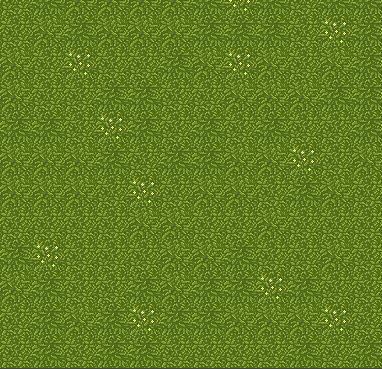
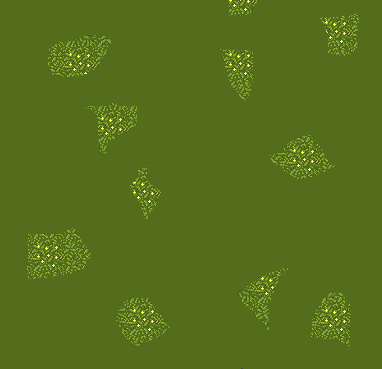
IA random intégrée. suppression des armées tuées

diff --git a/src/notreJeu/levels/AbstractLevelCTF.java b/src/notreJeu/levels/AbstractLevelCTF.java
@@ -11,10 +11,13 @@ import java.util.Set;
 import javax.swing.JButton;
 
 import gameframework.core.Game;
+import gameframework.core.GameEntity;
 import gameframework.core.GameLevelDefaultImpl;
 import gameframework.core.GameMovableDriverDefaultImpl;
 import gameframework.moves_rules.MoveBlockerChecker;
+import gameframework.moves_rules.MoveStrategy;
 import gameframework.moves_rules.MoveStrategyKeyboard;
+import gameframework.moves_rules.MoveStrategyRandom;
 import notreJeu.ArmyFactory;
 import notreJeu.Team;
 import notreJeu.entities.Army;
@@ -89,7 +92,7 @@ public abstract class AbstractLevelCTF extends GameLevelDefaultImpl{
 				}
 				Team t = _teams_played.iterator().next();
 				ArmyFactory a =t.getArmyFactory();
-				addArmy(a.getArmy(_canvas, nb_horseman, nb_infantryman, t, "Player"+String.valueOf(t.getSide())), _canvas);
+				addArmy(a.getArmy(_canvas, nb_horseman, nb_infantryman, t, "Player"+String.valueOf(t.getSide())));
 			}
 		}
 	}
@@ -103,12 +106,12 @@ public abstract class AbstractLevelCTF extends GameLevelDefaultImpl{
 		return new ReleaseArmyButtonAction(list);
 	}
 	
-	public void addArmy(Army army, Canvas canvas){
+	public void addArmy(Army army){
 		GameMovableDriverDefaultImpl armyDriver = new GameMovableDriverDefaultImpl();
 		MoveStrategyKeyboard keyPlayer = new MoveStrategyKeyboard();
 		armyDriver.setStrategy(keyPlayer);
 		armyDriver.setmoveBlockerChecker(moveBlockerChecker);
-		canvas.addKeyListener(keyPlayer);
+		_canvas.addKeyListener(keyPlayer);
 		army.setDriver(armyDriver);
 		try{
 			army.setTeam(_teams_played.iterator().next());
@@ -119,6 +122,35 @@ public abstract class AbstractLevelCTF extends GameLevelDefaultImpl{
 		universe.addGameEntity(army);
 	}
 	
+	public void addArmy(Team t, MoveStrategy move_strat, int nb_horseman, int nb_infantryman, String name){
+		GameMovableDriverDefaultImpl armyDriver = new GameMovableDriverDefaultImpl();
+		armyDriver.setStrategy(move_strat);
+		armyDriver.setmoveBlockerChecker(moveBlockerChecker);
+		
+		Army army = t.getArmyFactory().getArmy(_canvas, nb_horseman, nb_infantryman, name);
+		army.setDriver(armyDriver);
+		try{
+			army.setTeam(_teams_ia.iterator().next());
+		}catch(Exception e){e.printStackTrace();}
+		Point pos = army.getTeam().getPosition();
+		pos.setLocation(pos.getX(), pos.getY());
+		army.setPosition(pos);
+		universe.addGameEntity(army);
+	}
+	
+	public Army getArmy(Team t){
+		Iterator<GameEntity> it = universe.gameEntities();
+		GameEntity ge;
+		while(it.hasNext()){
+			ge = it.next();
+			if(ge instanceof Army){
+				if(((Army)ge).getTeam().getSide() == t.getSide())
+					return (Army)ge;
+			}	
+		}
+		return null;
+	}
+		
 	public void setSpriteSize(int size){
 		SPRITE_SIZE = size;
 	}

diff --git a/src/notreJeu/rules/CTFOverlapRules.java b/src/notreJeu/rules/CTFOverlapRules.java
@@ -1,10 +1,12 @@
 package notreJeu.rules;
 
+import gameframework.core.GameEntity;
 import gameframework.core.GameUniverse;
 import gameframework.core.ObservableValue;
 import gameframework.moves_rules.Overlap;
 import gameframework.moves_rules.OverlapRulesApplierDefaultImpl;
 
+import java.util.Iterator;
 import java.util.Vector;
 
 import notreJeu.entities.Army;
@@ -36,18 +38,45 @@ public class CTFOverlapRules extends OverlapRulesApplierDefaultImpl {
 		super.applyOverlapRules(overlappables);
 	}
 
+	private GameEntity getArmyFromUniverse(Army a){
+		Iterator<GameEntity> it = universe.gameEntities();
+		GameEntity ge;
+		while(it.hasNext()){
+			ge = it.next();
+			if(ge instanceof Army){
+				if(((Army)ge).equals(a))
+					return (Army)ge;
+			}	
+		}
+		return null;
+	}
+	
 	public void overlapRule(Army a, Army a2) {
-		Unit u1 = a.getSoldiers();
-		Unit u2 = a2.getSoldiers();
+		if(a.getTeam().getSide() != a2.getTeam().getSide()){
+			Unit u1 = a.getSoldiers();
+			Unit u2 = a2.getSoldiers();
+			
+			u2.parry(u1.strike());
+			u1.parry(u2.strike());
+			
+			System.out.println("u1 :"+u1.alive()+" u2 "+u2.alive());//TMP
+			
+			if(!u1.alive())
+				universe.removeGameEntity(getArmyFromUniverse(a));
+			if(!u2.alive())
+				universe.removeGameEntity(getArmyFromUniverse(a2));
+			
+			//TODO :disparition des entities si nécessaires
+		}
 		
-		u2.parry(u1.strike());
-		u1.parry(u2.strike());
+			
 	}
 
 	public void overlapRule(Army a, Flag f) {
 		//si c'est une armée d'un camps qui rencontre le drapeau d'un autre camps
 		if(f.getTeam().getSide() != a.getTeam().getSide()){
 			if ((!f.isCatched()) && !a.haveAFlag()){
+				System.out.println("CATCHED");
 				a.captureTheFlag();
 			}
 		}

diff --git a/src/notreJeu/levels/CTFLevel1.java b/src/notreJeu/levels/CTFLevel1.java
@@ -11,7 +11,6 @@ import java.awt.Image;
 import java.awt.Point;
 import java.awt.event.ActionListener;
 import java.io.FileInputStream;
-import java.util.HashSet;
 import java.util.LinkedList;
 import java.util.Queue;
 
@@ -28,13 +27,14 @@ import notreJeu.GetAgeFactory;
 import notreJeu.Team;
 import notreJeu.coreextensions.GameCTFImpl;
 import notreJeu.coreextensions.GameUniverseViewPortCTFImpl;
+
 import notreJeu.entities.Barrack;
 import notreJeu.entities.Flag;
+import notreJeu.entities.IAEntity;
 import notreJeu.entities.IndestructibleWall;
 import notreJeu.rules.CTFMoveBlockers;
 import notreJeu.rules.CTFOverlapRules;
 import notreJeu.rules.CreationFlagRuleCenterImpl;
-import notreJeu.rules.CreationFlagRuleHorizontalAxisImpl;
 import notreJeu.rules.CreationFlagRules;
 
 public class CTFLevel1 extends AbstractLevelCTF{
@@ -114,10 +114,15 @@ public class CTFLevel1 extends AbstractLevelCTF{
 					Team t = new Team(team_id, p, equips[team_id], armyFactory, cfr);
 					universe.addGameEntity(new Barrack(_canvas, p));
 					universe.addGameEntity(new Flag(_canvas, flag_pos, t));
-					if(team_id == 0)
+					if(team_id == 0){
 						_teams_played.add(t);
-					else
+						System.out.println(t.getSide());
+					}
+					else{
 						_teams_ia.add(t);
+						//Les IA ont une instance Entity pour avoir droit a des effets temporels.
+						universe.addGameEntity(new IAEntity(this, t));
+					}
 					break;
 				case 0:
 				default:

diff --git a/src/notreJeu/entities/Flag.java b/src/notreJeu/entities/Flag.java
@@ -10,7 +10,7 @@ import java.awt.Rectangle;
 import notreJeu.Team;
 
 public class Flag implements Entity {
-	protected DrawableImage image = null;
+	protected DrawableImage image = null, image_save;
 	protected Point _position;
 	protected boolean _catched;
 	protected Team _side;
@@ -18,6 +18,7 @@ public class Flag implements Entity {
 
 	public Flag(Canvas defaultCanvas, Point pos, Team side) {
 		image = new DrawableImage(side.getPicture(), defaultCanvas);
+		//image_save = new DrawableImage("images/ctf_flag_empty.png", defaultCanvas);
 		_position = pos;
 		_catched = false;
 		_side=side;
@@ -44,10 +45,14 @@ public class Flag implements Entity {
 	}
 	
 	public void draw(Graphics g) {
-		if(!_catched)
-			g.drawImage(image.getImage(), (int) getPosition().getX(),
-				(int) getPosition().getY(), RENDERING_SIZE, RENDERING_SIZE,
+		//if(!_catched)
+			g.drawImage(image.getImage(), getPosition().x, getPosition().y, RENDERING_SIZE, RENDERING_SIZE,
 				null);
+		/*else{
+			DrawableImage tmp = image;
+			image = image_save;
+			image_save = tmp;
+		}*/
 	}
 
 	public Rectangle getBoundingBox() {

diff --git a/src/notreJeu/entities/IAEntity.java b/src/notreJeu/entities/IAEntity.java
@@ -1,0 +1,35 @@
+package notreJeu.entities;
+
+import java.awt.Rectangle;
+
+import notreJeu.Team;
+import notreJeu.levels.AbstractLevelCTF;
+import gameframework.core.GameEntity;
+import gameframework.core.GameMovable;
+import gameframework.moves_rules.MoveStrategyRandom;
+
+public class IAEntity extends GameMovable implements GameEntity{
+
+	private int _timer;
+	private AbstractLevelCTF _level;
+	private Team _team;
+	public static final int RENDERING_SIZE = 32;
+	
+	public IAEntity(AbstractLevelCTF level, Team t) {
+		_timer = 0;
+		_level = level;
+		_team = t;
+	}
+	
+	@Override
+	public Rectangle getBoundingBox() {return new Rectangle(0, 0, RENDERING_SIZE, RENDERING_SIZE);}
+
+	@Override
+	public void oneStepMoveAddedBehavior() {
+		_timer++;
+		if(_timer%50 == 0 && _level.getArmy(_team)== null){
+			_level.addArmy(_team, new MoveStrategyRandom(), 2, 2,"IA");
+		}
+	}
+
+}

diff --git a/src/notreJeu/coreextensions/GameCTFImpl.java b/src/notreJeu/coreextensions/GameCTFImpl.java
@@ -51,7 +51,6 @@ public class GameCTFImpl implements Game, Observer {
 	protected CanvasDefaultImpl defaultCanvas = null;
 	protected ObservableValue<Integer> score[] = new ObservableValue[MAX_NUMBER_OF_PLAYER];
 	protected ObservableValue<Integer> life[] = new ObservableValue[MAX_NUMBER_OF_PLAYER];
-
 	// initialized before each level
 	protected ObservableValue<Boolean> endOfGame = null;
 
@@ -282,10 +281,7 @@ public class GameCTFImpl implements Game, Observer {
 			}
 			for (ObservableValue<Integer> scoreObservable : score) {
 				if (o == scoreObservable) {
-					scoreValue
-							.setText(Integer
-									.toString(((ObservableValue<Integer>) o)
-											.getValue()));
+					scoreValue.setText(Integer.toString(((ObservableValue<Integer>) o).getValue()));
 				}
 			}
 		}

diff --git a/src/notreJeu/entities/Army.java b/src/notreJeu/entities/Army.java
@@ -15,14 +15,12 @@ public class Army extends EntityMovable {
 	private SpriteManagerDefaultImpl _spriteManager;
 	
 	private boolean _hasTheFlag;
-	private boolean _movable;
 	private Unit _unit;
 	private Team _side;
 	
 	public Army(Canvas canvas, Unit unit, Team side) {
 		_side = side;
 		_unit = unit;
-		_movable = true;
 		_hasTheFlag = false;
 		_spriteManager = new SpriteManagerDefaultImpl("images/ctf_horseman.gif",canvas, RENDERING_SIZE, 6);
 		_spriteManager.setTypes("right", "left", "up","down");
@@ -52,7 +50,6 @@ public class Army extends EntityMovable {
 	public void draw(Graphics g) {
 		String spriteType = "";
 		Point tmp = getSpeedVector().getDirection();
-		_movable = true;
 
 		if (tmp.getX() == -1) {
 			spriteType += "left";

diff --git a/src/notreJeu/ArmyFactory.java b/src/notreJeu/ArmyFactory.java
@@ -6,9 +6,7 @@ import java.util.Queue;
 
 import notreJeu.entities.Army;
 import soldier.core.AgeAbstractFactory;
-import soldier.core.Unit;
 import soldier.core.UnitGroup;
-import soldier.core.Weapon;
 
 public class ArmyFactory implements Cloneable{
 	
